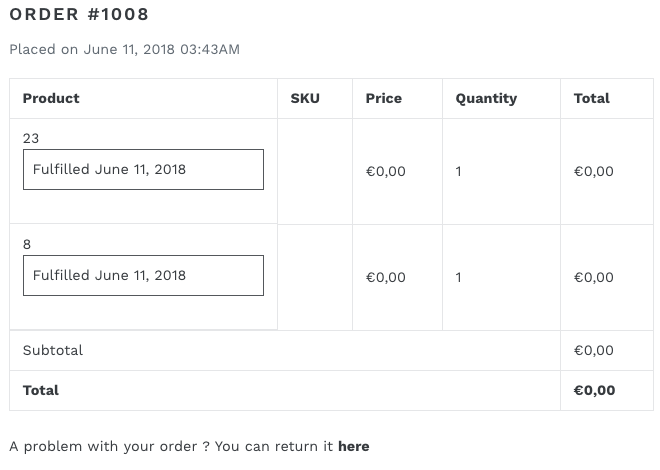
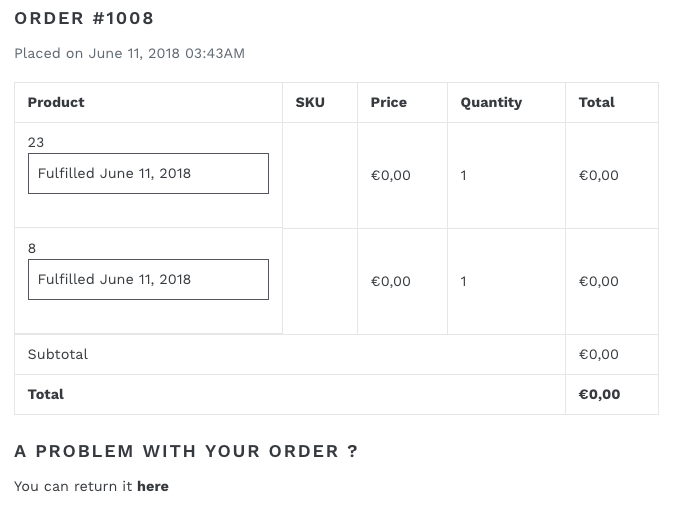
h2 instead of span for code

diff --git a/source/includes/shopify/return_button.html.md b/source/includes/shopify/return_button.html.md
@@ -32,7 +32,7 @@ To enable returns for your customers, you need to modify you shop's theme.
 
 ```html
 <div class="shoprunback_return">
-  <span class="title">{{ 'customer.order.return.title' | t }}</span>
+  <h2>{{ 'customer.order.return.title' | t }}</h2>
   <span class="action">
     {{ 'customer.order.return.action' | t }}
     {% assign customer_url = order.customer_url| split: "/"  %}
